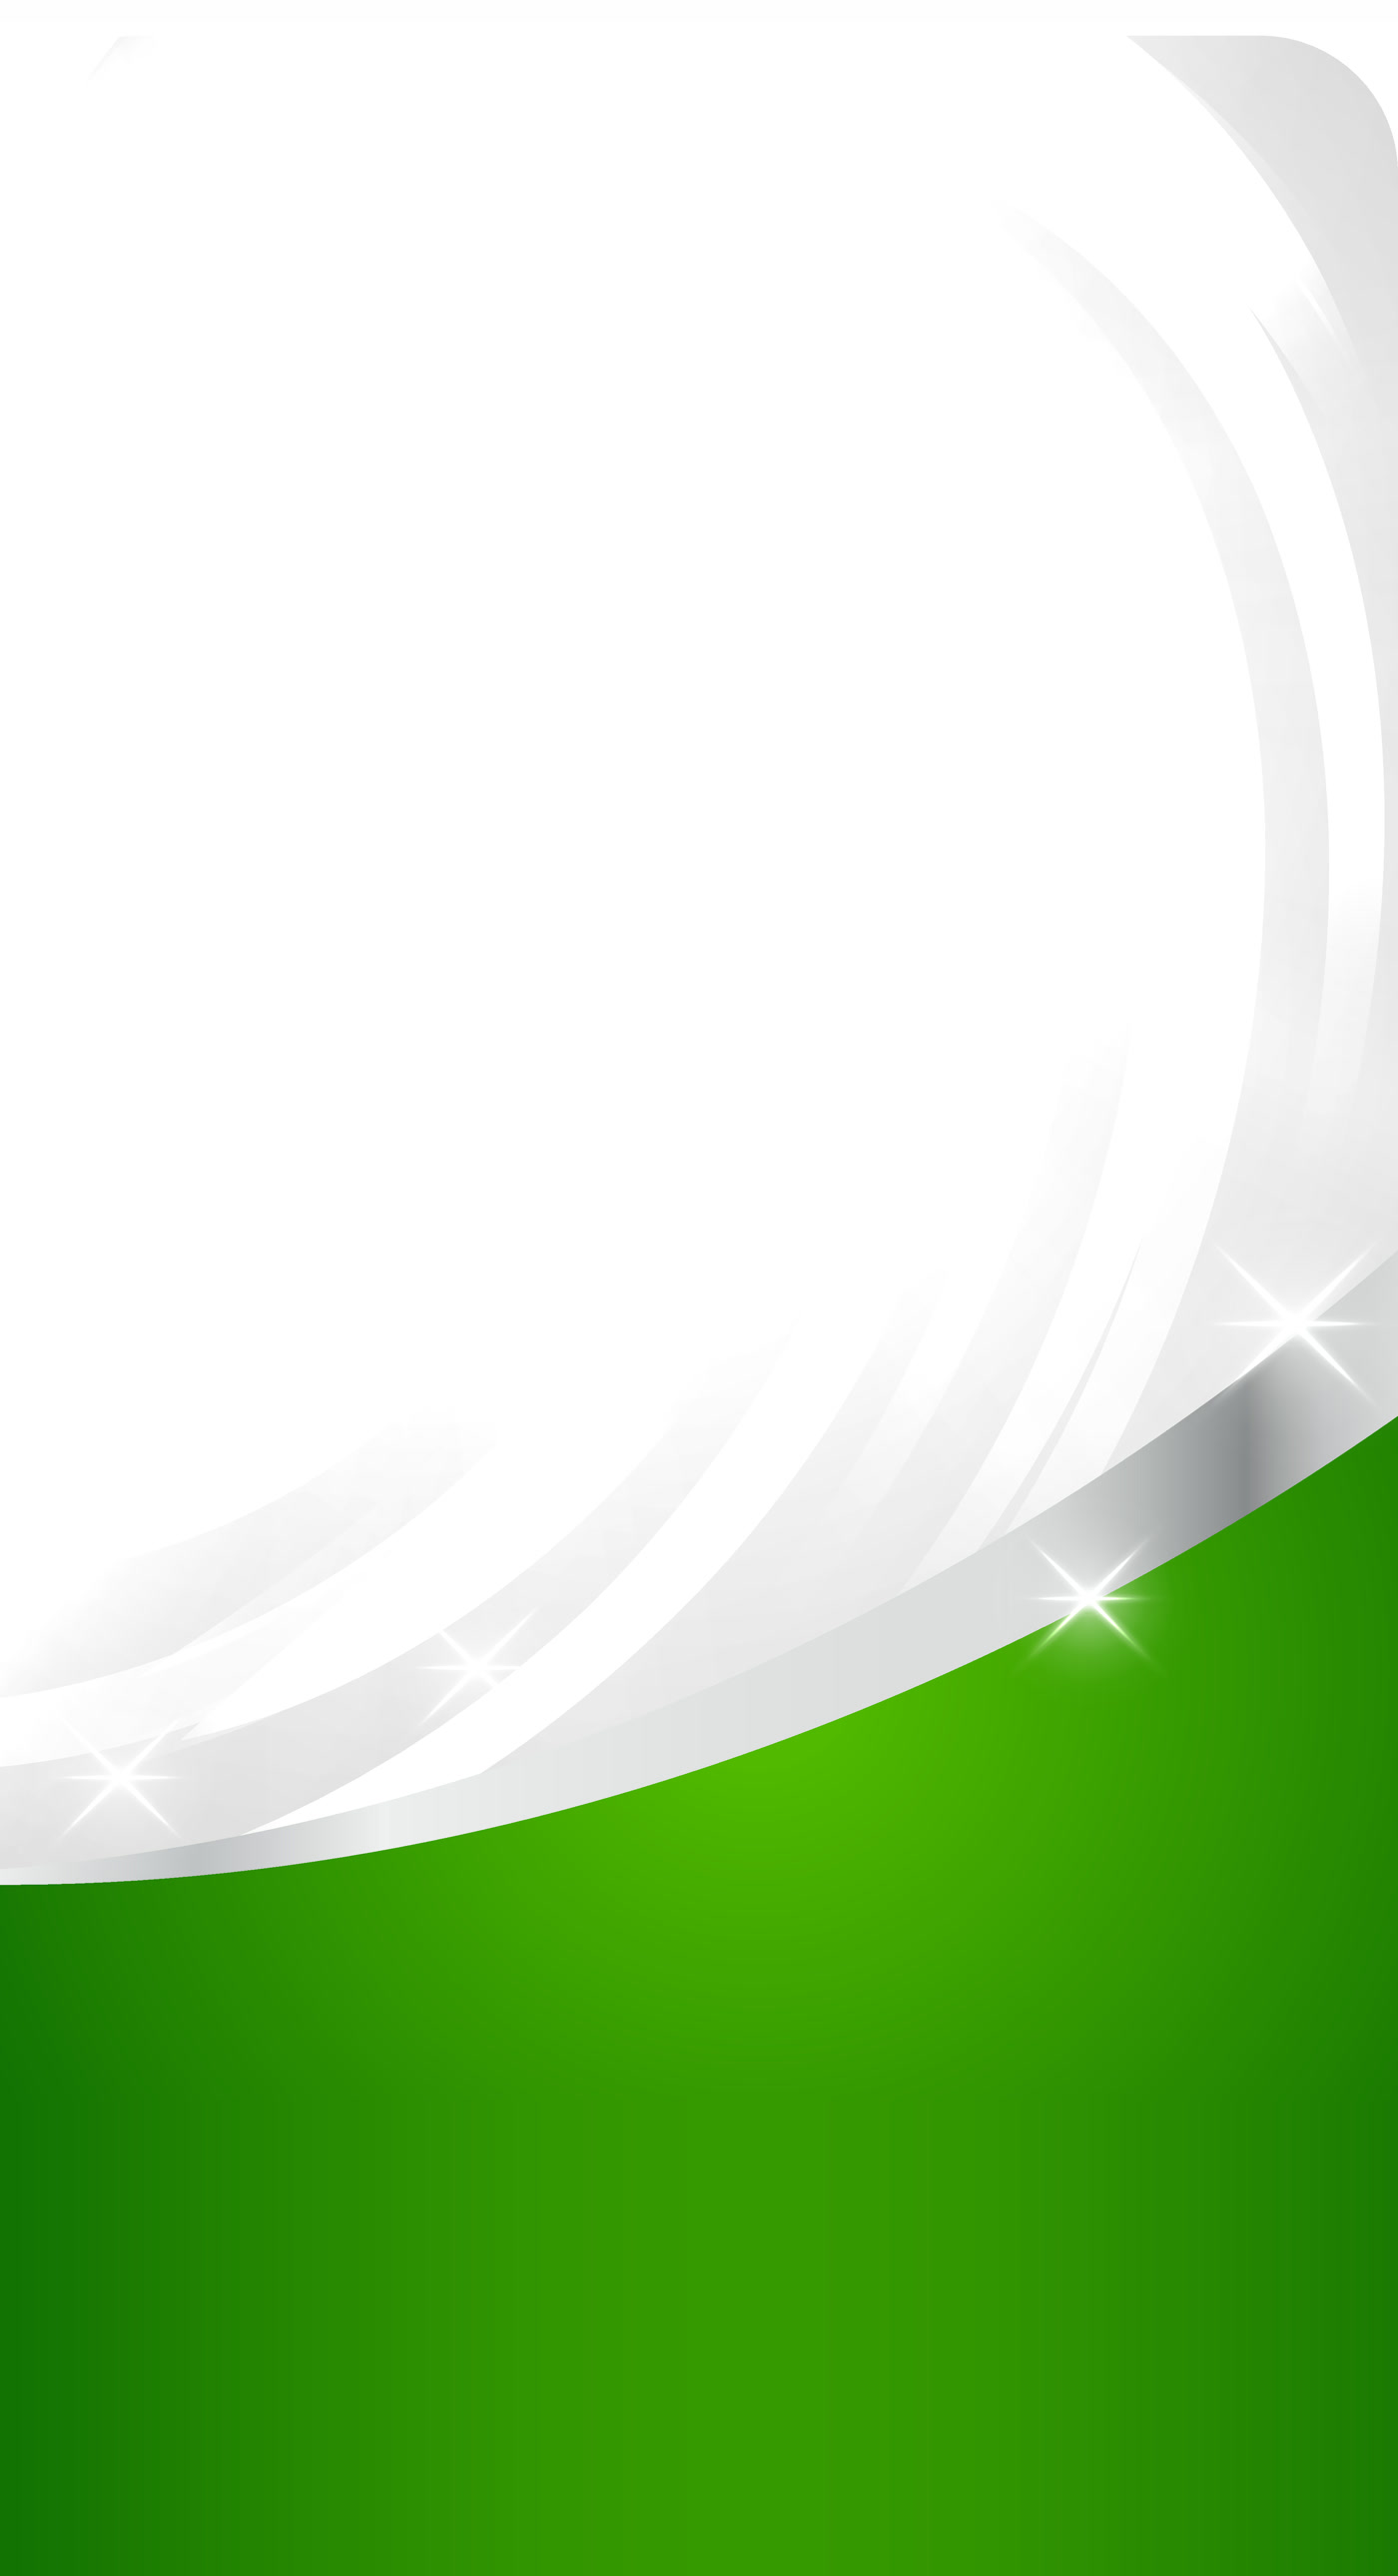
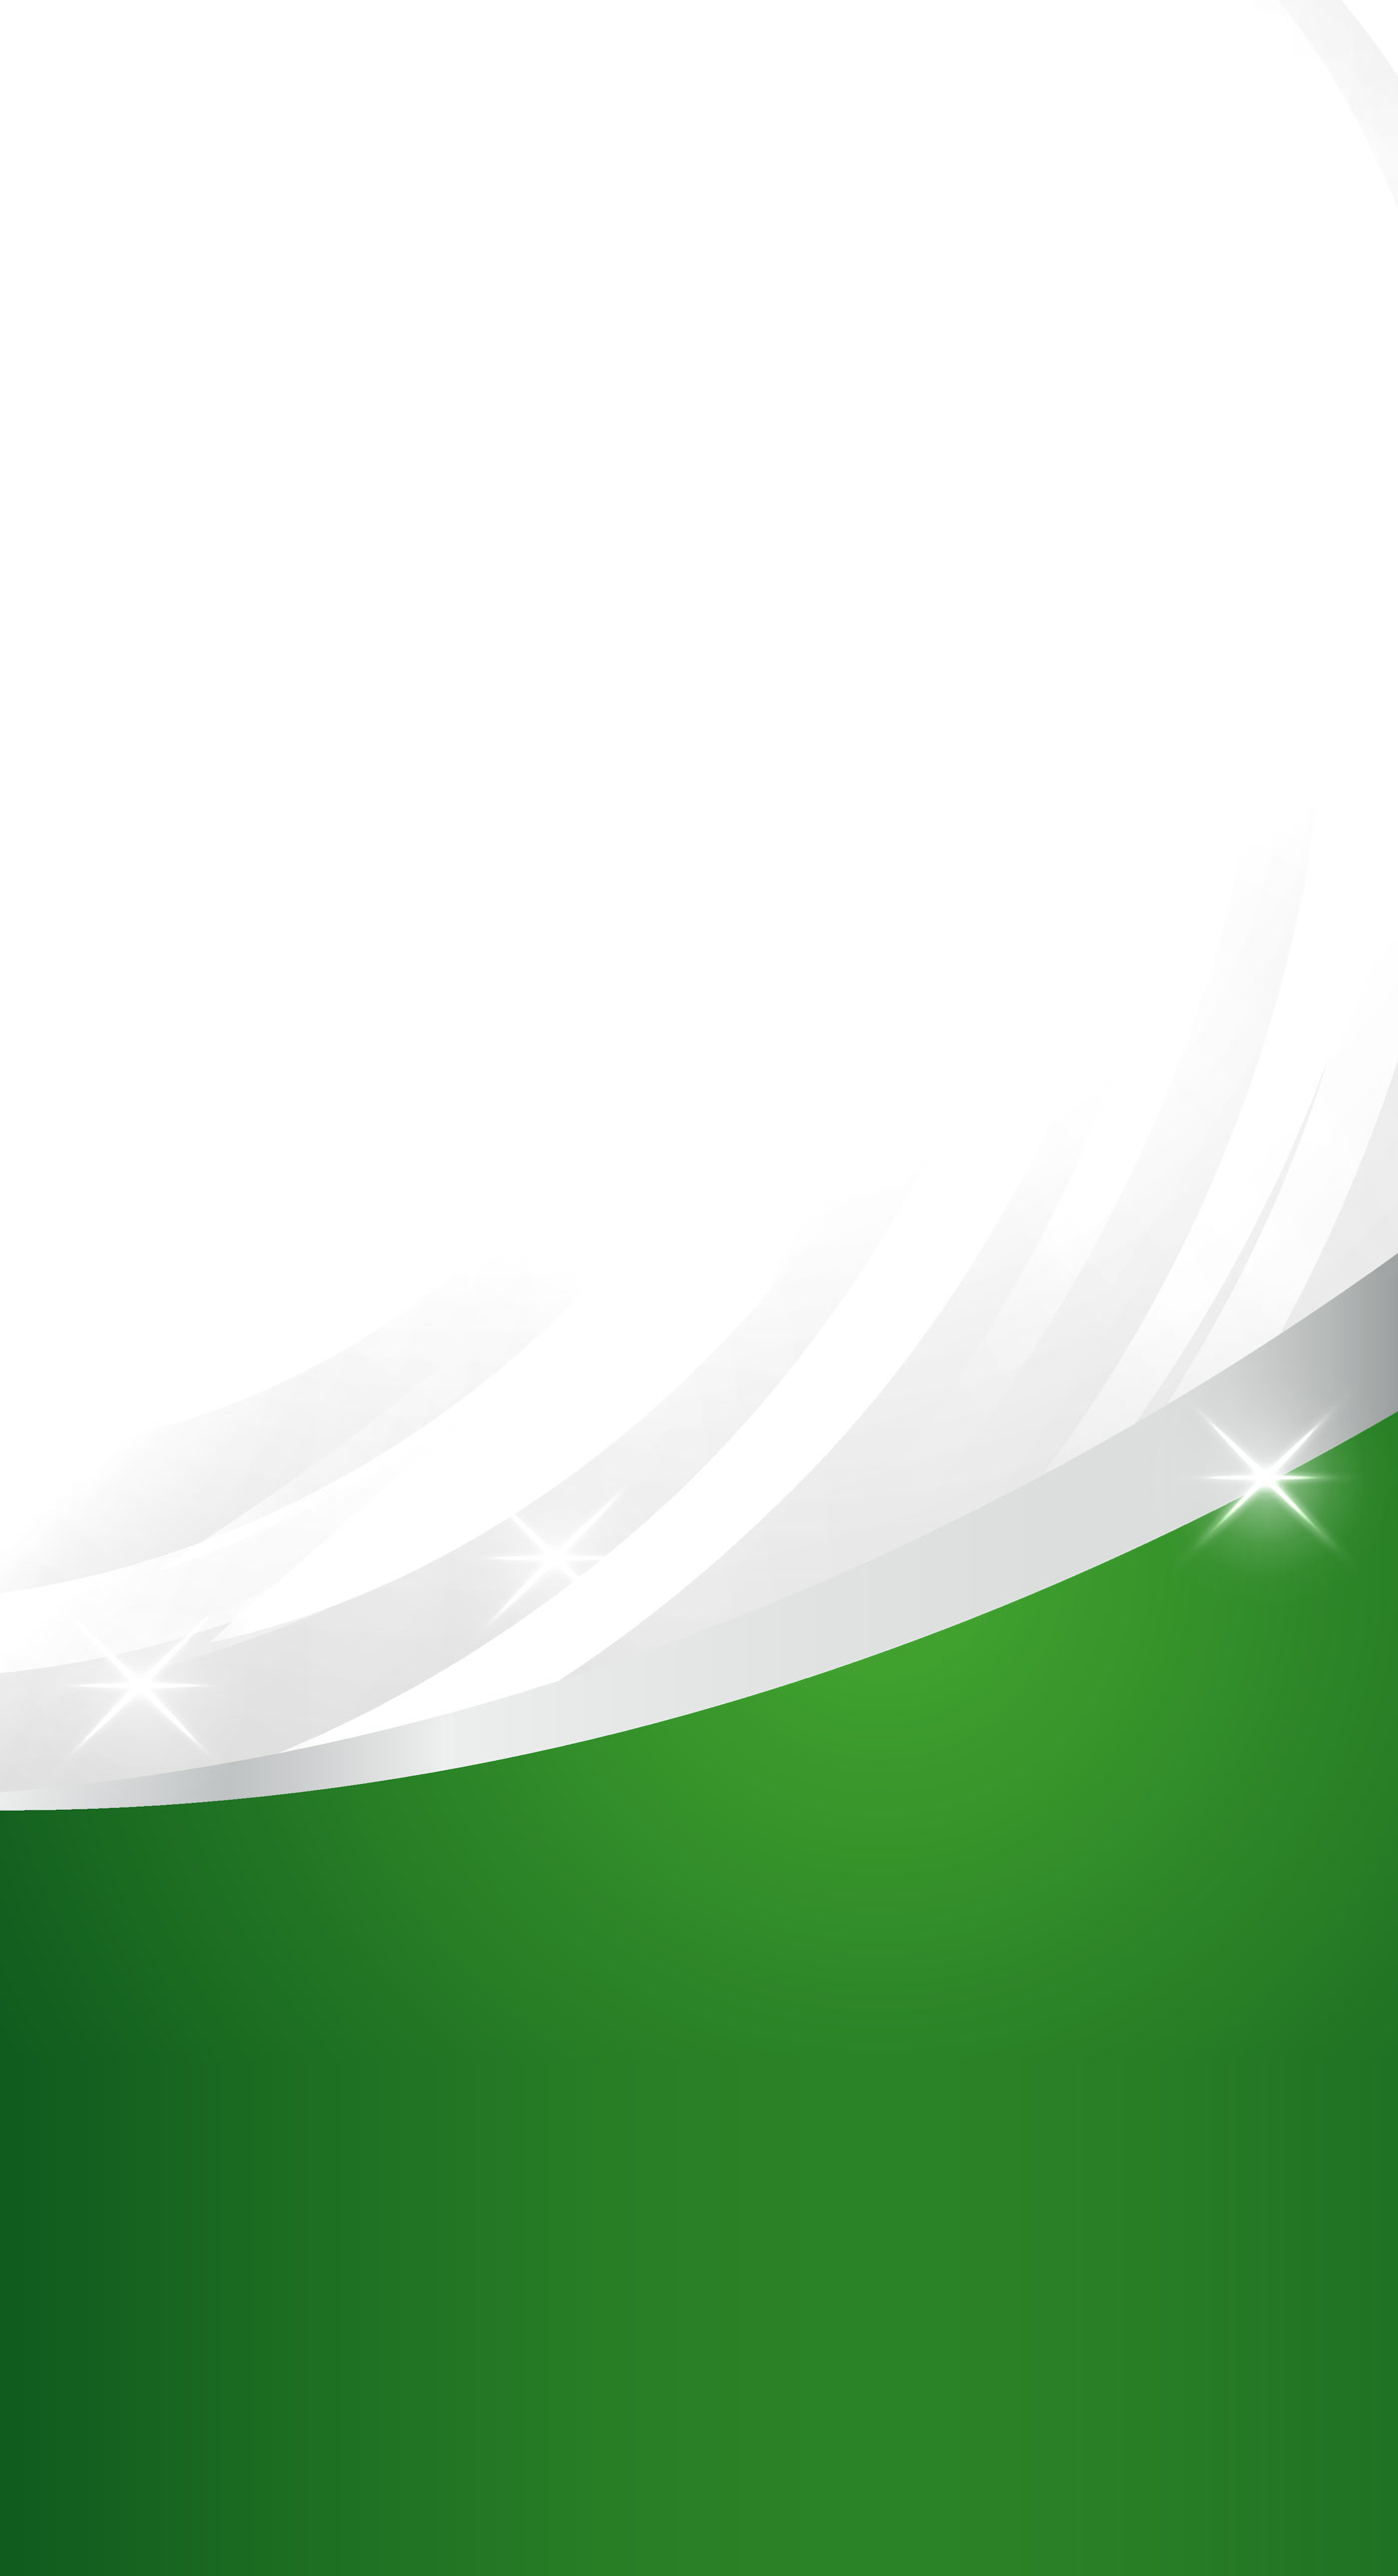
feat: welcome locked — broadcast pitch greens, sliced wordmark, silver pill
- artwork remapped to broadcast rugby-pitch green (researched natural
  turf ramp, hue/sat/lightness on the yellow-green band only) and
  reframed: 15% zoom left-anchored, window raised for a full green
  field under the sweep; grey right-edge pooling framed out
- brand block speaks one PITCH_GREENS system: fingerprint (exact
  Ionicons path, light-zone ramp), wordmark two-toned by a hard
  diagonal slice from the R's lower quarter to the S's upper quarter
  (light over dark; flip trialled and reverted), tagline in the
  dark-zone ramp
- sign-in reworked: compact 150pt silver-ribbon pill (white catching
  silver, deep green label) — the sweep's silver edge as a button;
  provider sheet doors ride the same pitch ramp

diff --git a/mobile/src/app/welcome.tsx b/mobile/src/app/welcome.tsx
@@ -4,7 +4,6 @@ import { useState } from 'react';
 import { Modal, Pressable, StyleSheet, Text, View } from 'react-native';
 import { SafeAreaView, useSafeAreaInsets } from 'react-native-safe-area-context';
 
-import { BlurView } from 'expo-blur';
 import { Image } from 'expo-image';
 import { LinearGradient } from 'expo-linear-gradient';
 import Svg, {
@@ -19,7 +18,7 @@ import Svg, {
   Text as SvgText,
 } from 'react-native-svg';
 
-import { ChartDoodleBackdrop } from '@/components/chart-doodle-backdrop';
+import { ChartDoodleBackdrop, FINGERPRINT_PATH } from '@/components/chart-doodle-backdrop';
 import { markWelcomeSeen } from '@/hooks/use-welcome-seen';
 import { Colors, Spacing, TextSize, TextTracking } from '@/constants/theme';
 
@@ -83,6 +82,12 @@ const GRADIENT_GREENS = ['#0A3D1E', '#0F4A25', '#176D37', '#1E7A3F', '#27904C'] 
 
 // Option 3's charcoals, top → bottom — the dark-terminal ground.
 const CHARCOALS = ['#1B1D21', '#101114', '#0A0B0D'] as const;
+
+// The broadcast pitch ramp (owner arc 2026-07-14): the wordmark's
+// dark zone (#124E1B→#1D6423) and light zone (#4DA344→#5CB04E) with
+// an interpolated mid stop — one green system for the brand block,
+// the artwork's sweep and the sign-in doors.
+const PITCH_GREENS = ['#124E1B', '#1D6423', '#358333', '#4DA344', '#5CB04E'] as const;
 
 /** Option 3's watermark — the six-lobe radar ghosted at billboard
  *  scale: two rings, spokes, and the familiar irregular shape. */
@@ -328,7 +333,18 @@ export default function WelcomeScreen() {
       {geom ? (
         <View style={[styles.brandBlock, { top: layout ? layout.h * 0.335 : geom.y22 }]} pointerEvents="none">
           <View style={styles.logoTilt}>
-            <Ionicons name="finger-print-outline" size={58} color="#0A3D1E" />
+            {/* The exact Ionicons print geometry with the wordmark's
+                LIGHT-zone ramp (owner call 2026-07-14) — icon and the
+                name's lit half share one ink. */}
+            <Svg width={58} height={58} viewBox="0 0 512 512">
+              <Defs>
+                <SvgLinearGradient id="mark-ramp" x1="0" y1="0" x2="1" y2="1">
+                  <Stop offset="0" stopColor="#5CB04E" />
+                  <Stop offset="1" stopColor="#4DA344" />
+                </SvgLinearGradient>
+              </Defs>
+              <Path d={FINGERPRINT_PATH} fill="url(#mark-ramp)" />
+            </Svg>
           </View>
           {/* Wordmark in the GRADIENT_GREENS ramp (owner call
               2026-07-14) — light leading into deep ink, the EXPERT
@@ -336,13 +352,32 @@ export default function WelcomeScreen() {
               cannot take a gradient fill. */}
           <Svg width={340} height={54}>
             <Defs>
-              {/* Deep ink leading into light (reversed, owner call
-                  2026-07-14). */}
-              <SvgLinearGradient id="wordmark-ramp" x1="0" y1="0" x2="1" y2="0">
-                <Stop offset="0" stopColor={GRADIENT_GREENS[0]} />
-                <Stop offset="0.35" stopColor={GRADIENT_GREENS[2]} />
-                <Stop offset="0.65" stopColor={GRADIENT_GREENS[3]} />
-                <Stop offset="1" stopColor={GRADIENT_GREENS[4]} />
+              {/* The EXPERT-label two-tone (owner call 2026-07-14):
+                  a LIGHT gradient zone and a DARK gradient zone split
+                  by one hard diagonal running corner to corner —
+                  bottom-left of the R to the top-right of the S. The
+                  gradient runs top-left → bottom-right so the shared
+                  0.5 stop lands exactly on that anti-diagonal. Greens
+                  from the broadcast pitch ramp so the name and the
+                  artwork's sweep speak one green. */}
+              {/* User-space gradient perpendicular to the divide
+                  line — 25% up the R's side rising to 25% down the
+                  S (flattened from full corner-to-corner, owner call
+                  2026-07-14) — so the hard 0.5 stop IS that line:
+                  every letter splits light-over-dark around it. */}
+              <SvgLinearGradient
+                id="wordmark-ramp"
+                gradientUnits="userSpaceOnUse"
+                x1="171"
+                y1="2"
+                x2="174"
+                y2="56">
+                {/* Light above the line, dark below — the flip was
+                    trialled and reverted (owner call 2026-07-14). */}
+                <Stop offset="0" stopColor="#5CB04E" />
+                <Stop offset="0.499" stopColor="#4DA344" />
+                <Stop offset="0.501" stopColor="#1D6423" />
+                <Stop offset="1" stopColor="#124E1B" />
               </SvgLinearGradient>
             </Defs>
             <SvgText
@@ -355,7 +390,27 @@ export default function WelcomeScreen() {
               RUGBYMETRICS
             </SvgText>
           </Svg>
-          <Text style={styles.strapline}>Match analysis · Stats · Predictions</Text>
+          {/* Tagline in the wordmark's DARK-zone ramp (owner call
+              2026-07-14) — SVG text because RN Text can't take a
+              gradient fill. */}
+          <Svg width={360} height={18}>
+            <Defs>
+              <SvgLinearGradient id="tagline-ramp" x1="0" y1="0" x2="1" y2="0">
+                <Stop offset="0" stopColor="#1D6423" />
+                <Stop offset="1" stopColor="#124E1B" />
+              </SvgLinearGradient>
+            </Defs>
+            <SvgText
+              x={180}
+              y={13}
+              textAnchor="middle"
+              fontFamily="WorkSans_500Medium"
+              fontSize={TextSize.sm}
+              letterSpacing={TextTracking.wide}
+              fill="url(#tagline-ramp)">
+              MATCH ANALYSIS · STATS · PREDICTIONS
+            </SvgText>
+          </Svg>
         </View>
       ) : null}
       <View style={styles.fieldSpacer} />
@@ -371,9 +426,18 @@ export default function WelcomeScreen() {
           accessibilityRole="button"
           accessibilityLabel="Sign in"
           style={({ pressed }) => [styles.glassWrap, pressed && styles.pressed]}>
-          <BlurView intensity={35} tint="light" style={styles.glassFill}>
-            <Text style={styles.buttonText}>Sign in</Text>
-          </BlurView>
+          {/* Silver-ribbon door (owner call 2026-07-14): the sweep's
+              silver edge reborn as the button fill — white catching
+              silver at the centre — with the wordmark's deep green
+              as the label ink. Green fills trialled and retired. */}
+          <LinearGradient
+            colors={['#FFFFFF', '#DDE0E4', '#C9CCD1', '#DDE0E4', '#FFFFFF']}
+            locations={[0, 0.3, 0.5, 0.7, 1]}
+            start={{ x: 0, y: 0 }}
+            end={{ x: 1, y: 0 }}
+            style={styles.glassFill}>
+            <Text style={styles.buttonTextGreen}>Sign in</Text>
+          </LinearGradient>
         </Pressable>
       </View>
 
@@ -449,7 +513,7 @@ export default function WelcomeScreen() {
               {/* Quarter i of the ramp: adjacent buttons share their
                   seam colour, so the stack is one continuous sweep. */}
               <LinearGradient
-                colors={[GRADIENT_GREENS[i], GRADIENT_GREENS[i + 1]]}
+                colors={[PITCH_GREENS[i], PITCH_GREENS[i + 1]]}
                 style={styles.sheetDoorFill}>
                 <View style={styles.sheetBtnInner}>
                   <View style={styles.sheetBtnIcon}>{door.icon}</View>
@@ -496,15 +560,6 @@ const styles = StyleSheet.create({
     position: 'absolute',
     overflow: 'hidden',
   },
-  strapline: {
-    fontFamily: 'WorkSans_500Medium',
-    fontSize: TextSize.sm,
-    letterSpacing: TextTracking.wide,
-    textTransform: 'uppercase',
-    // The Guest door's green (GRADIENT_GREENS ramp's lit end, owner
-    // call 2026-07-14) — a step brighter than the wordmark's deep ink.
-    color: '#27904C',
-  },
 
   actions: {
     gap: Spacing.two,
@@ -523,23 +578,31 @@ const styles = StyleSheet.create({
   // Frosted register (owner call 2026-07-13: solid white was
   // glaring on the dark ground) — translucent fill, soft keyline,
   // white content.
+  // Pill door (owner call 2026-07-14): compact centred pill instead
+  // of the full-width bar.
   glassWrap: {
-    borderRadius: 12,
+    borderRadius: 999,
     overflow: 'hidden',
     borderWidth: 1,
     borderColor: 'rgba(255,255,255,0.55)',
+    alignSelf: 'center',
+    width: 150,
   },
   glassFill: {
-    height: 48,
+    height: 36,
     alignItems: 'center',
     justifyContent: 'center',
-    // Thin white tint over the blur — the Apple-glass milkiness.
-    backgroundColor: 'rgba(255,255,255,0.08)',
   },
   buttonText: {
     fontFamily: 'WorkSans_600SemiBold',
     fontSize: 14,
     color: '#FFFFFF',
+  },
+  buttonTextGreen: {
+    fontFamily: 'WorkSans_600SemiBold',
+    fontSize: 14,
+    // The wordmark's deep-ink green on the silver ribbon.
+    color: '#124E1B',
   },
   sheetBackdrop: {
     flex: 1,

diff --git a/mobile/src/components/chart-doodle-backdrop.tsx b/mobile/src/components/chart-doodle-backdrop.tsx
@@ -28,7 +28,7 @@ const W = 1.3;
 // MIT), embedded verbatim so the wallpaper print matches the brand
 // mark stroke-for-stroke (owner call 2026-07-11). The outline variant
 // is authored as fills, so it renders with fill, not stroke.
-const FINGERPRINT_PATH =
+export const FINGERPRINT_PATH =
   'M390.42 75.28a10.45 10.45 0 01-5.32-1.44C340.72 50.08 302.35 40 256.35 40c-45.77 0-89.23 11.28-128.76 33.84C122 77 115.11 74.8 111.87 69a12.4 12.4 0 014.63-16.32A281.81 281.81 0 01256.35 16c49.23 0 92.23 11.28 139.39 36.48a12 12 0 014.85 16.08 11.3 11.3 0 01-10.17 6.72zm-330.79 126a11.73 11.73 0 01-6.7-2.16 12.26 12.26 0 01-2.78-16.8c22.89-33.6 52-60 86.69-78.48 72.58-38.84 165.51-39.12 238.32-.24 34.68 18.48 63.8 44.64 86.69 78a12.29 12.29 0 01-2.78 16.8 11.26 11.26 0 01-16.18-2.88c-20.8-30.24-47.15-54-78.36-70.56-66.34-35.28-151.18-35.28-217.29.24-31.44 16.8-57.79 40.8-78.59 71a10 10 0 01-9.02 5.08zM204.1 491a10.66 10.66 0 01-8.09-3.6C175.9 466.48 165 453 149.55 424c-16-29.52-24.27-65.52-24.27-104.16 0-71.28 58.71-129.36 130.84-129.36S387 248.56 387 319.84a11.56 11.56 0 11-23.11 0c0-58.08-48.32-105.36-107.72-105.36S148.4 261.76 148.4 319.84c0 34.56 7.39 66.48 21.49 92.4 14.8 27.6 25 39.36 42.77 58.08a12.67 12.67 0 010 17 12.44 12.44 0 01-8.56 3.68zm165.75-44.4c-27.51 0-51.78-7.2-71.66-21.36a129.1 129.1 0 01-55-105.36 11.57 11.57 0 1123.12 0 104.28 104.28 0 0044.84 85.44c16.41 11.52 35.6 17 58.72 17a147.41 147.41 0 0024-2.4c6.24-1.2 12.25 3.12 13.4 9.84a11.92 11.92 0 01-9.47 13.92 152.28 152.28 0 01-27.95 2.88zM323.38 496a13 13 0 01-3-.48c-36.76-10.56-60.8-24.72-86-50.4-32.37-33.36-50.16-77.76-50.16-125.28 0-38.88 31.9-70.56 71.19-70.56s71.2 31.68 71.2 70.56c0 25.68 21.5 46.56 48.08 46.56s48.08-20.88 48.08-46.56c0-90.48-75.13-163.92-167.59-163.92-65.65 0-125.75 37.92-152.79 96.72-9 19.44-13.64 42.24-13.64 67.2 0 18.72 1.61 48.24 15.48 86.64 2.32 6.24-.69 13.2-6.7 15.36a11.34 11.34 0 01-14.79-7 276.39 276.39 0 01-16.88-95c0-28.8 5.32-55 15.72-77.76 30.75-67 98.94-110.4 173.6-110.4 105.18 0 190.71 84.24 190.71 187.92 0 38.88-31.9 70.56-71.2 70.56s-71.2-31.68-71.2-70.56c.01-25.68-21.49-46.6-48.07-46.6s-48.08 20.88-48.08 46.56c0 41 15.26 79.44 43.23 108.24 22 22.56 43 35 75.59 44.4 6.24 1.68 9.71 8.4 8.09 14.64a11.39 11.39 0 01-10.87 9.16z';
 
 /** The ball, extracted so it can appear twice in the deck (owner